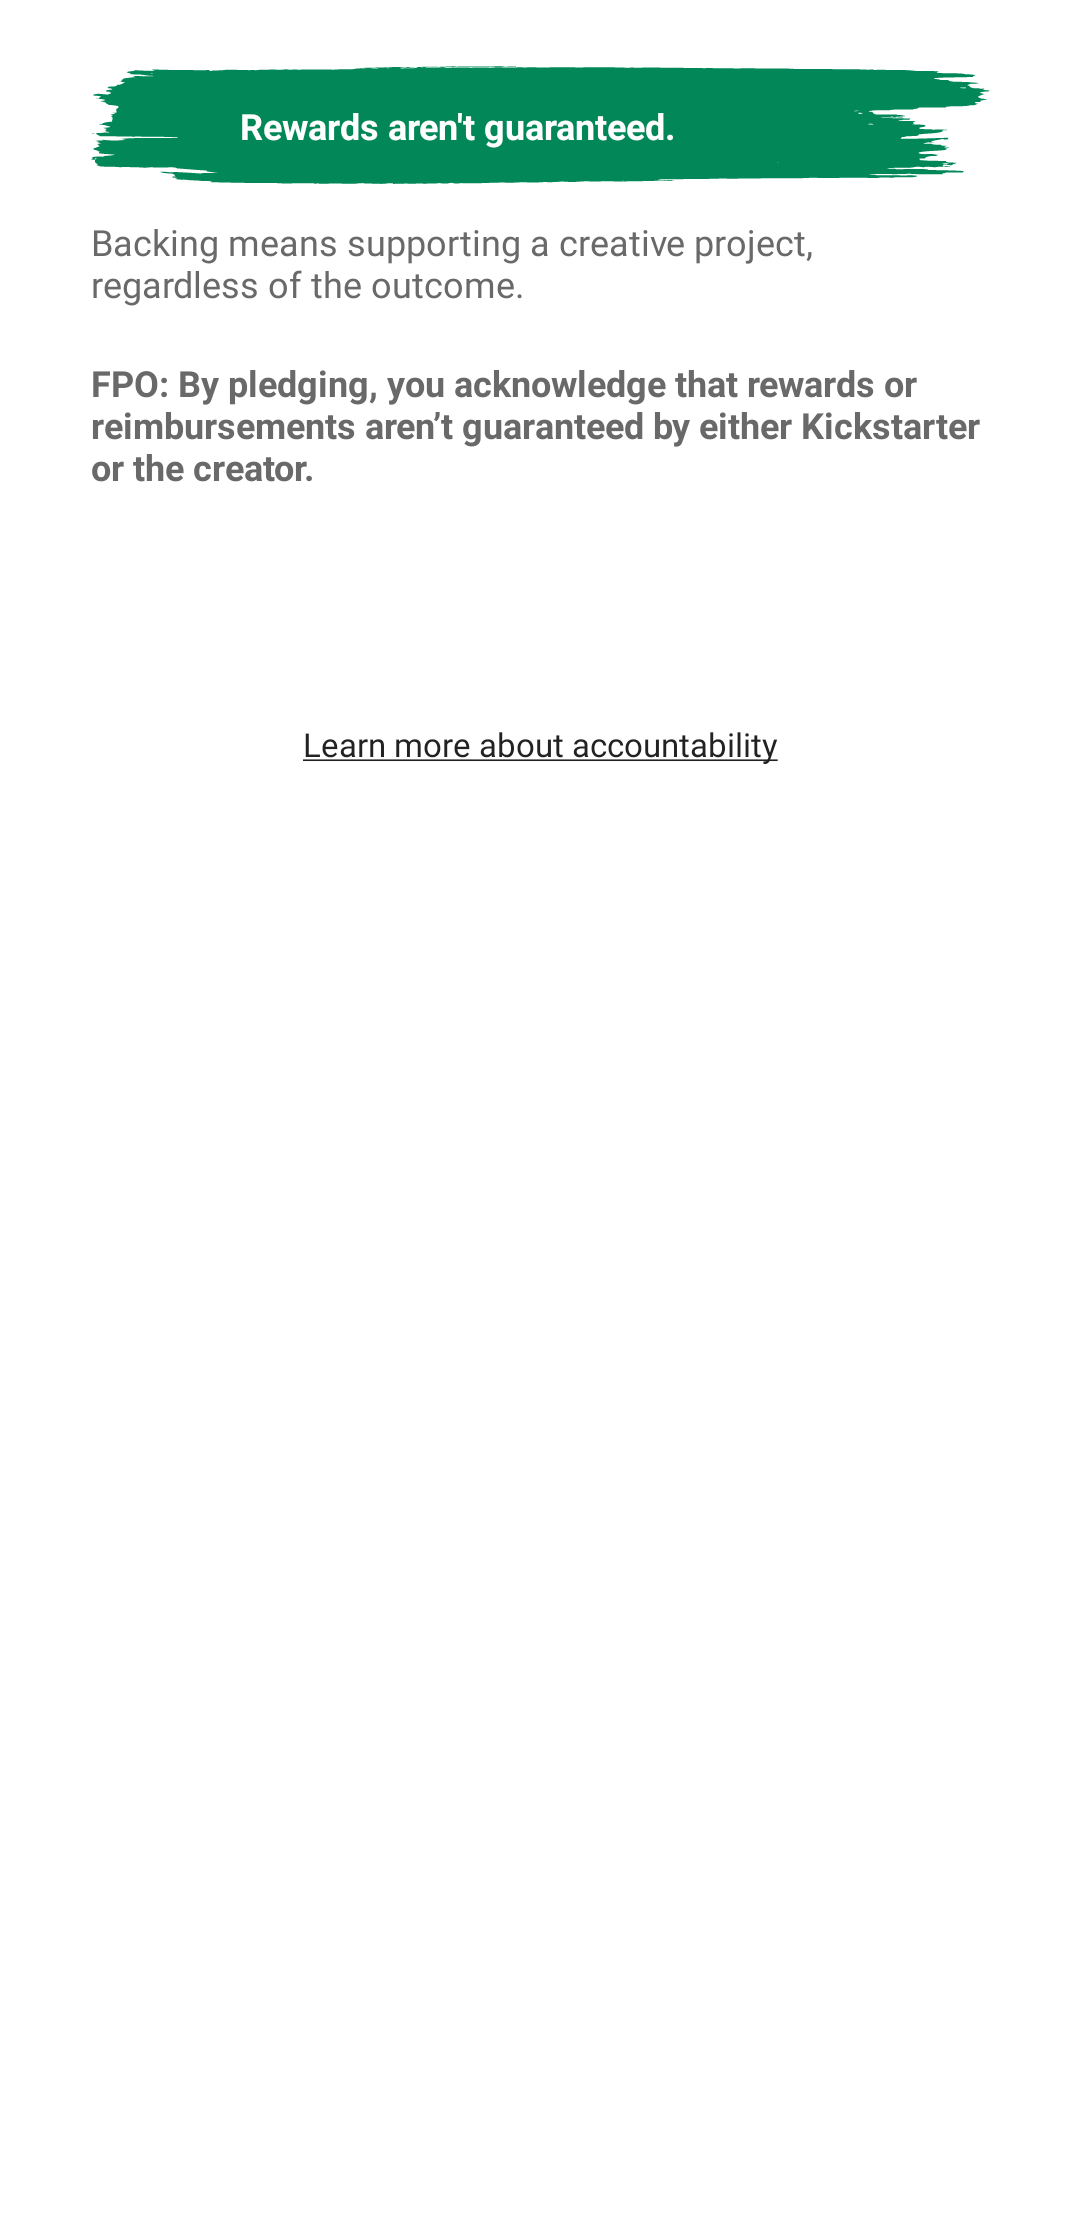
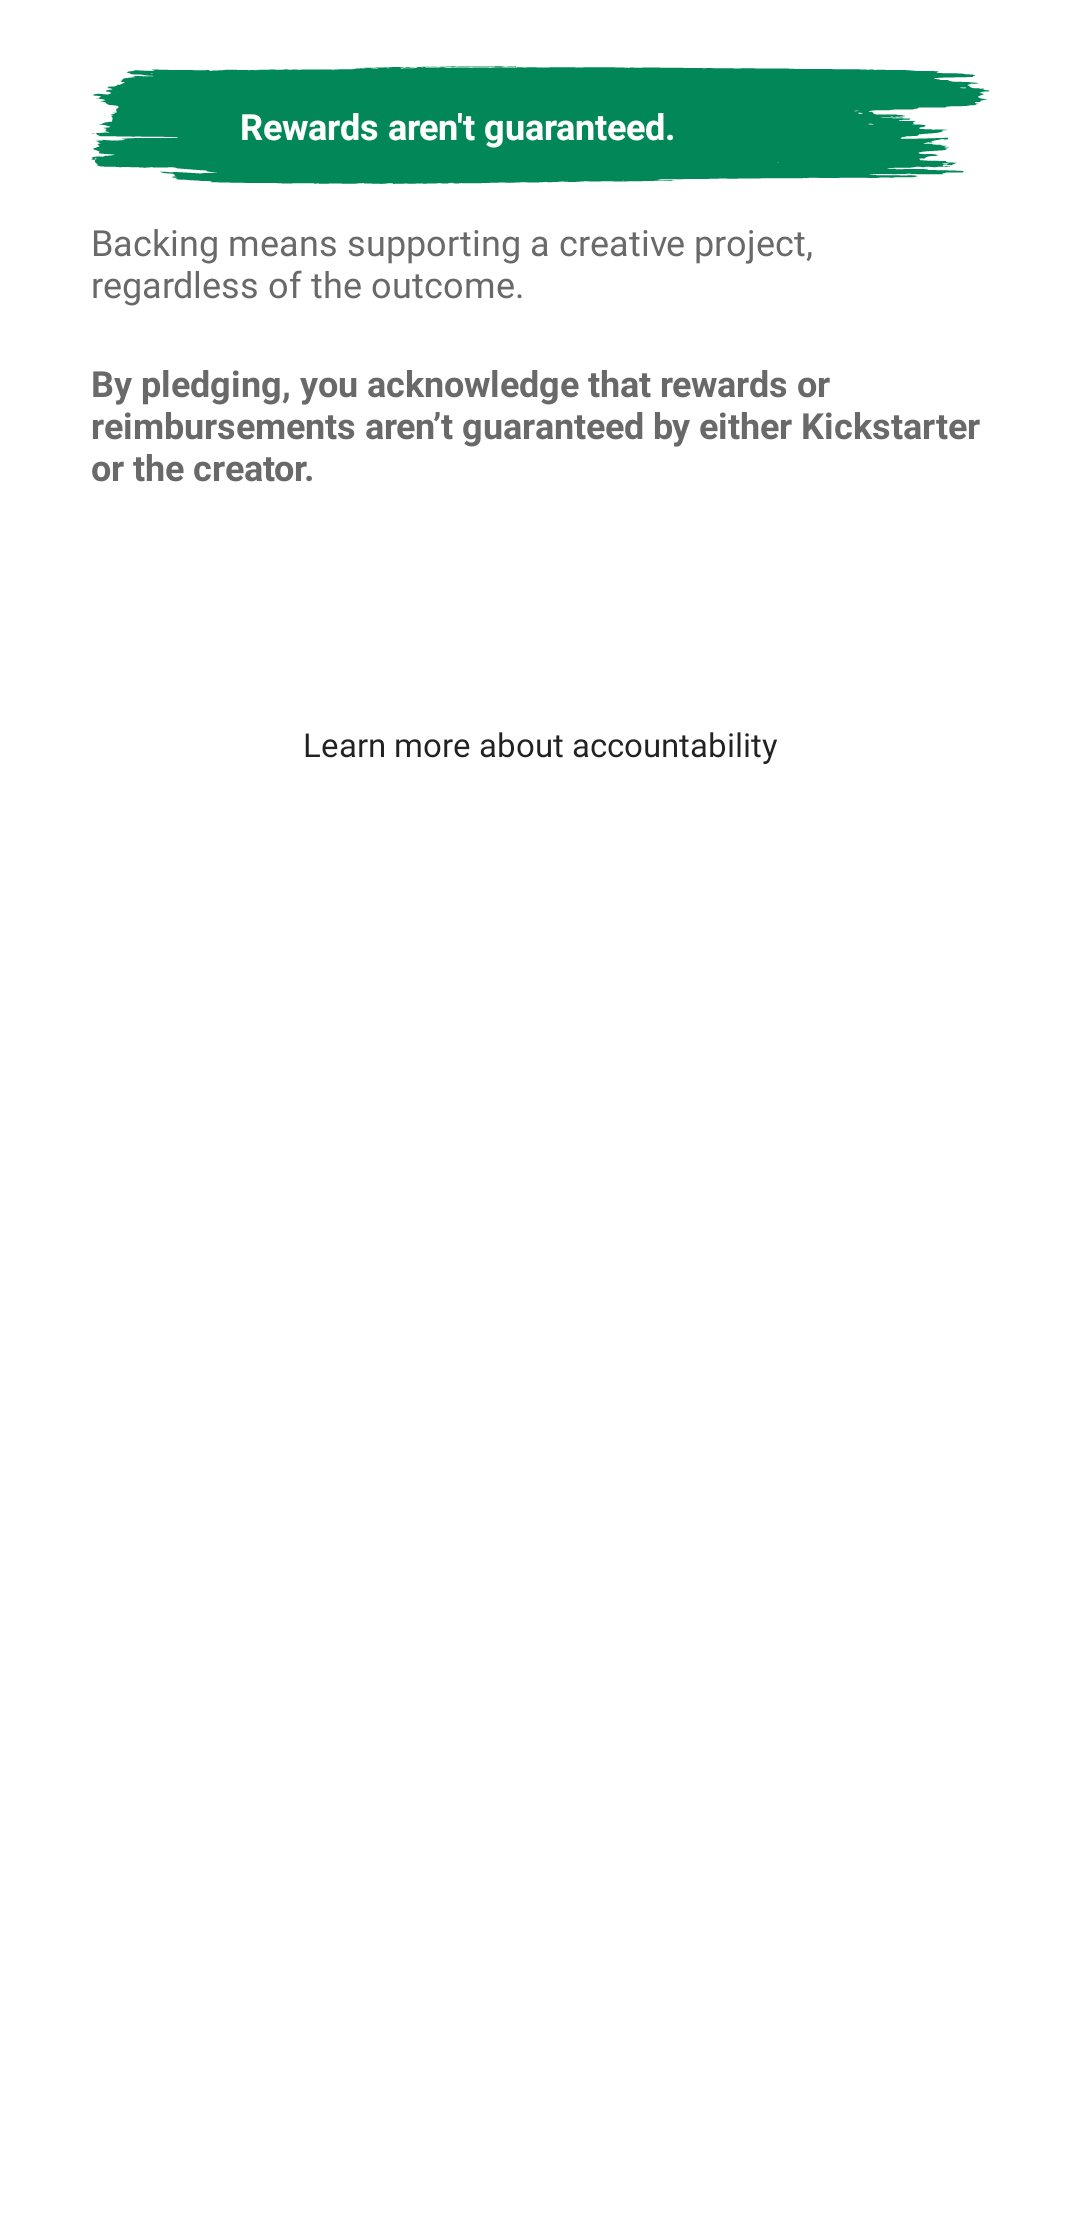
Update screen shot test

Changed region(s): [[0.0917, 0.1554, 0.8556, 0.1865]]

diff --git a/app/src/main/java/com/kickstarter/ui/fragments/CheckoutRiskMessageFragment.kt b/app/src/main/java/com/kickstarter/ui/fragments/CheckoutRiskMessageFragment.kt
@@ -14,6 +14,9 @@ import com.kickstarter.databinding.FragmentCheckoutRiskMessageBinding
 import com.kickstarter.libs.BaseBottomSheetDialogFragment
 import com.kickstarter.libs.qualifiers.RequiresFragmentViewModel
 import com.kickstarter.libs.utils.ApplicationUtils
+import com.kickstarter.libs.utils.extensions.parseHtmlTag
+import com.kickstarter.ui.extensions.makeLinks
+import com.kickstarter.ui.extensions.parseHtmlTag
 import com.kickstarter.viewmodels.CheckoutRiskMessageFragmentViewModel
 import rx.android.schedulers.AndroidSchedulers
 
@@ -64,10 +67,6 @@ class CheckoutRiskMessageFragment : BaseBottomSheetDialogFragment <CheckoutRiskM
             parent.layoutParams = layoutParams
         }
 
-        binding?.learnMoreAboutAccountabilityTv?.setOnClickListener {
-            this.viewModel.inputs.onLearnMoreAboutAccountabilityLinkClicked()
-        }
-
         binding?.confirm?.setOnClickListener {
             delegate?.onDialogConfirmButtonClicked()
             dismissDialog()
@@ -102,6 +101,20 @@ class CheckoutRiskMessageFragment : BaseBottomSheetDialogFragment <CheckoutRiskM
                         }
                     })
             }
+        }
+
+        binding?.learnMoreAboutAccountabilityTv?.parseHtmlTag()
+        context?.resources?.getString(R.string.Learn_more_about_accountability)?.let {
+            val args = Pair(
+              it,
+                View.OnClickListener {
+                    this.viewModel.inputs.onLearnMoreAboutAccountabilityLinkClicked()
+                },
+            )
+            binding?.learnMoreAboutAccountabilityTv?.makeLinks(args,
+                linkColor = R.color.text_primary,
+                isUnderlineText = true
+            )
         }
     }
 
